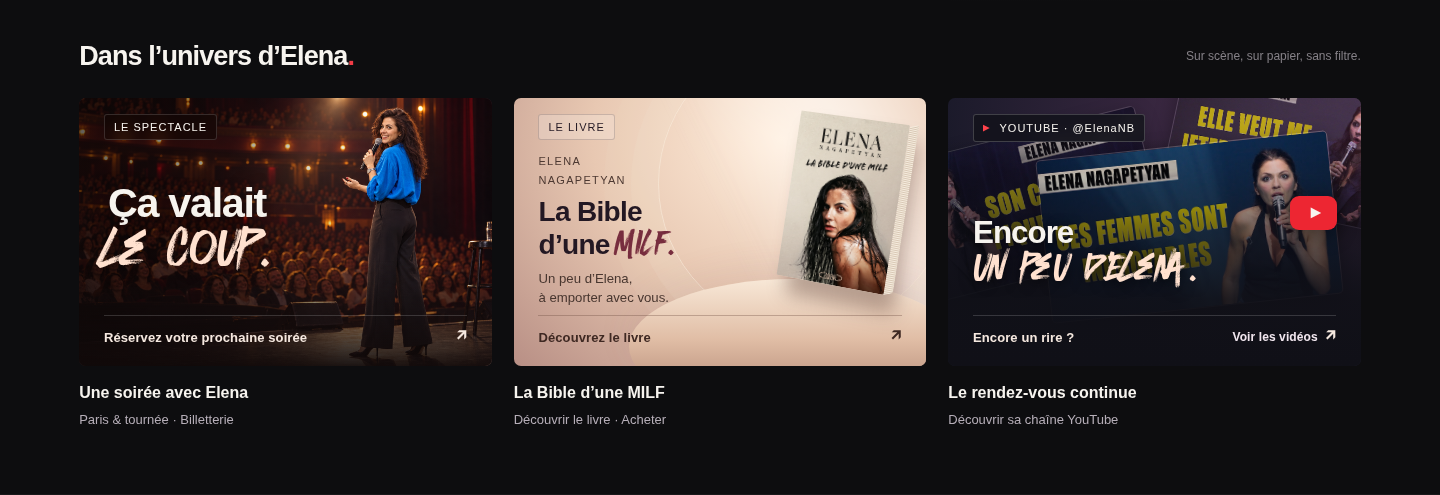
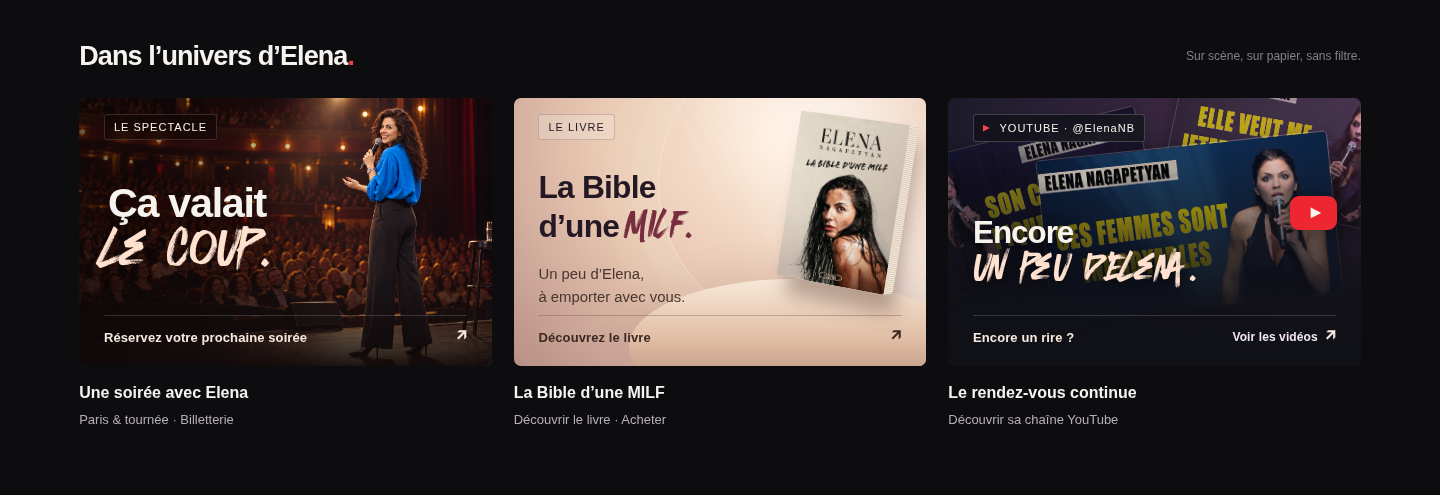
[Sol · GPT-6 · 19/09/2026] Rééquilibrer le texte de la carte du livre

Changed region(s): [[0.375, 0.303, 0.5, 0.5152], [0.375, 0.5455, 0.4688, 0.6364]]

diff --git a/site/index.html b/site/index.html
@@ -1,10 +1,10 @@
 <!doctype html>
-<html lang="fr"><head><meta charset="utf-8"><meta name="viewport" content="width=device-width,initial-scale=1"><meta name="robots" content="noindex,nofollow"><meta name="description" content="Une proposition créative autour de l’univers d’Elena Nagapetyan."><title>Elena — Ça valait le coup · Concept</title><link rel="icon" type="image/png" sizes="32x32" href="assets/favicon-32.png"><link rel="icon" type="image/svg+xml" href="assets/favicon.svg"><link rel="apple-touch-icon" sizes="180x180" href="assets/apple-touch-icon.png"><link rel="stylesheet" href="style.css?v=footer-12"></head>
+<html lang="fr"><head><meta charset="utf-8"><meta name="viewport" content="width=device-width,initial-scale=1"><meta name="robots" content="noindex,nofollow"><meta name="description" content="Une proposition créative autour de l’univers d’Elena Nagapetyan."><title>Elena — Ça valait le coup · Concept</title><link rel="icon" type="image/png" sizes="32x32" href="assets/favicon-32.png"><link rel="icon" type="image/svg+xml" href="assets/favicon.svg"><link rel="apple-touch-icon" sizes="180x180" href="assets/apple-touch-icon.png"><link rel="stylesheet" href="style.css?v=book-13"></head>
 <body>
 <a class="skip" href="#spectacle">Aller au contenu</a>
 <header><a class="brand" href="#accueil" aria-label="Elena, accueil">ELENA<span>NAGAPETYAN</span></a><nav aria-label="Navigation principale"><a class="active" href="#accueil">Accueil</a><a href="#spectacle">Le spectacle</a><a href="#univers">Son univers</a><a href="#contact">Contact</a></nav><div class="header-actions"><div class="header-socials" aria-label="Réseaux sociaux"><a class="header-social header-instagram" href="https://www.instagram.com/elenanagapetyan_/" target="_blank" rel="noopener noreferrer" aria-label="Elena sur Instagram" title="Elena sur Instagram"><svg aria-hidden="true" viewBox="0 0 24 24" fill="none" stroke="currentColor" stroke-width="1.7"><rect x="3" y="3" width="18" height="18" rx="5"/><circle cx="12" cy="12" r="4"/><circle cx="17.5" cy="6.5" r="1" fill="currentColor" stroke="none"/></svg></a><a class="header-social header-youtube" href="https://www.youtube.com/@ElenaNB" target="_blank" rel="noopener noreferrer" aria-label="Elena sur YouTube" title="Elena sur YouTube"><svg aria-hidden="true" viewBox="0 0 24 24" fill="none" stroke="currentColor" stroke-width="1.7"><rect x="2" y="5" width="20" height="14" rx="4"/><path d="m10 9 6 3-6 3Z" fill="currentColor" stroke="none"/></svg></a><a class="header-social header-facebook" href="https://www.facebook.com/p/Elena-Nagapetyan-100076068015422/" target="_blank" rel="noopener noreferrer" aria-label="Elena sur Facebook" title="Elena sur Facebook"><svg aria-hidden="true" viewBox="0 0 24 24" fill="none" stroke="currentColor" stroke-width="1.7"><path d="M14 21v-8h3l.5-4H14V7c0-1 .4-2 2-2h2V1.5A25 25 0 0 0 15 1c-3 0-5 2-5 5v3H7v4h3v8Z" fill="currentColor" stroke="none"/></svg></a></div><a class="tickets" href="https://linktr.ee/elenanb" target="_blank" rel="noopener noreferrer">Billetterie <span>↗</span></a></div></header>
 <main><section class="hero" id="accueil"><div class="glow"></div><div class="backword" aria-hidden="true">ELENA</div><img class="portrait" src="assets/elena-hd.png" alt="Elena Nagapetyan" fetchpriority="high"><div class="hero-shade"></div><div class="hero-content"><p class="eyebrow"><span></span> ELENA NAGAPETYAN · SUR SCÈNE</p><h1><span>Ça valait</span><br><em>le coup.</em></h1><div class="metadata"><span>Stand-up</span><b>·</b><span>Paris & tournée</span><b>·</b><span class="tag">SPECTACLE</span></div><p class="intro">Oser dire ce qu’elle pense.<br>Vivre comme elle veut. Libre.</p><div class="actions"><a class="button primary" href="https://linktr.ee/elenanb" target="_blank" rel="noopener noreferrer"><span>↗</span> Voir la billetterie</a><a class="button secondary" href="#spectacle"><span>ⓘ</span> Le spectacle</a></div></div><div class="hero-bottom"><span>UNE VOIX. AUCUN FILTRE.</span><a href="#univers">Explorer son univers <span>↓</span></a><span class="index">STAND-UP</span></div></section>
-<section class="catalog section" id="univers"><div class="section-heading"><h2>Dans l’univers d’Elena<span>.</span></h2><span>Sur scène, sur papier, sans filtre.</span></div><div class="cards"><a class="card stage" href="https://linktr.ee/elenanb" target="_blank" rel="noopener noreferrer"><div class="card-art"><span class="pill">LE SPECTACLE</span><img class="scene-photo" src="assets/elena-scene.png" alt="Illustration générée d’Elena debout sur scène face à une salle de spectacle" loading="lazy"><span class="scene-shade" aria-hidden="true"></span><div class="card-title">Ça valait<br><em>le coup.</em></div><span class="card-cta">Réservez votre prochaine soirée <span aria-hidden="true">↗</span></span></div><div class="card-caption"><h3>Une soirée avec Elena</h3><p>Paris & tournée · Billetterie</p></div></a><a class="card book" href="https://www.interforum.fr/Affiliations/accueil.do?refLivre=9782749964133&amp;refEditeur=132&amp;type=P" target="_blank" rel="noopener noreferrer"><div class="card-art"><span class="pill">LE LIVRE</span><span class="book-orbit" aria-hidden="true"></span><span class="book-plinth" aria-hidden="true"></span><div class="book-copy"><span>ELENA<br>NAGAPETYAN</span><strong>La Bible<br><span>d’une <em>MILF.</em></span></strong><small>Un peu d’Elena,<br>à emporter avec vous.</small></div><div class="book-object"><img src="assets/livre-couverture.jpg" alt="Couverture originale de La Bible d’une MILF, Elena Nagapetyan, éditions Michel Lafon" loading="lazy"></div><span class="card-cta">Découvrez le livre <span aria-hidden="true">↗</span></span></div><div class="card-caption"><h3>La Bible d’une MILF</h3><p>Découvrir le livre · Acheter</p></div></a><a class="card video" href="https://www.youtube.com/@ElenaNB" target="_blank" rel="noopener noreferrer"><div class="card-art"><div class="youtube-mosaic" aria-hidden="true"><img class="yt-back" src="assets/youtube-2.jpg" alt="" loading="lazy"><img class="yt-side" src="assets/youtube-3.jpg" alt="" loading="lazy"><img class="yt-front" src="assets/youtube-1.jpg" alt="" loading="lazy"></div><span class="video-shade" aria-hidden="true"></span><span class="pill youtube-label"><span>▶</span> YOUTUBE · @ElenaNB</span><span class="play" aria-hidden="true">▶</span><div class="video-type">Encore<br><em>un peu d’Elena.</em></div><span class="card-cta">Encore un rire ? <span class="cta-action">Voir les vidéos</span> <span aria-hidden="true">↗</span></span></div><div class="card-caption"><h3>Le rendez-vous continue</h3><p>Découvrir sa chaîne YouTube</p></div></a></div></section>
+<section class="catalog section" id="univers"><div class="section-heading"><h2>Dans l’univers d’Elena<span>.</span></h2><span>Sur scène, sur papier, sans filtre.</span></div><div class="cards"><a class="card stage" href="https://linktr.ee/elenanb" target="_blank" rel="noopener noreferrer"><div class="card-art"><span class="pill">LE SPECTACLE</span><img class="scene-photo" src="assets/elena-scene.png" alt="Illustration générée d’Elena debout sur scène face à une salle de spectacle" loading="lazy"><span class="scene-shade" aria-hidden="true"></span><div class="card-title">Ça valait<br><em>le coup.</em></div><span class="card-cta">Réservez votre prochaine soirée <span aria-hidden="true">↗</span></span></div><div class="card-caption"><h3>Une soirée avec Elena</h3><p>Paris & tournée · Billetterie</p></div></a><a class="card book" href="https://www.interforum.fr/Affiliations/accueil.do?refLivre=9782749964133&amp;refEditeur=132&amp;type=P" target="_blank" rel="noopener noreferrer"><div class="card-art"><span class="pill">LE LIVRE</span><span class="book-orbit" aria-hidden="true"></span><span class="book-plinth" aria-hidden="true"></span><div class="book-copy"><strong>La Bible<br><span>d’une <em>MILF.</em></span></strong><small>Un peu d’Elena,<br>à emporter avec vous.</small></div><div class="book-object"><img src="assets/livre-couverture.jpg" alt="Couverture originale de La Bible d’une MILF, Elena Nagapetyan, éditions Michel Lafon" loading="lazy"></div><span class="card-cta">Découvrez le livre <span aria-hidden="true">↗</span></span></div><div class="card-caption"><h3>La Bible d’une MILF</h3><p>Découvrir le livre · Acheter</p></div></a><a class="card video" href="https://www.youtube.com/@ElenaNB" target="_blank" rel="noopener noreferrer"><div class="card-art"><div class="youtube-mosaic" aria-hidden="true"><img class="yt-back" src="assets/youtube-2.jpg" alt="" loading="lazy"><img class="yt-side" src="assets/youtube-3.jpg" alt="" loading="lazy"><img class="yt-front" src="assets/youtube-1.jpg" alt="" loading="lazy"></div><span class="video-shade" aria-hidden="true"></span><span class="pill youtube-label"><span>▶</span> YOUTUBE · @ElenaNB</span><span class="play" aria-hidden="true">▶</span><div class="video-type">Encore<br><em>un peu d’Elena.</em></div><span class="card-cta">Encore un rire ? <span class="cta-action">Voir les vidéos</span> <span aria-hidden="true">↗</span></span></div><div class="card-caption"><h3>Le rendez-vous continue</h3><p>Découvrir sa chaîne YouTube</p></div></a></div></section>
 <section class="story section" id="spectacle"><div><p class="eyebrow">LE SPECTACLE</p><h2>Assumer ses choix.<br><em>Et en rire.</em></h2></div><div class="story-copy"><p>Ce spectacle raconte le parcours d’une fille qui essaie d’assumer ses choix. Celle qui ose dire ce qu’elle pense et vivre comme elle veut. Libre.</p><a class="button primary story-booking" href="https://linktr.ee/elenanb" target="_blank" rel="noopener noreferrer">Trouver ma prochaine soirée <span aria-hidden="true">↗</span></a></div></section>
 <section class="contact section" id="contact"><div class="contact-heading"><p class="eyebrow">ON GARDE LE LIEN</p><h2>La suite,<br><em>c’est par ici.</em></h2></div><p class="contact-intro">Le spectacle se termine.<br>Les rires, eux, peuvent continuer.<span>Retrouvez Elena sur vos réseaux préférés.</span></p><div class="socials" aria-label="Retrouver Elena sur les réseaux sociaux"><a class="social-link social-instagram" href="https://www.instagram.com/elenanagapetyan_/" target="_blank" rel="noopener noreferrer"><span class="social-icon" aria-hidden="true"><svg viewBox="0 0 24 24" fill="none" stroke="currentColor" stroke-width="1.7"><rect x="3" y="3" width="18" height="18" rx="5"/><circle cx="12" cy="12" r="4"/><circle cx="17.5" cy="6.5" r="1" fill="currentColor" stroke="none"/></svg></span><span class="social-name">Instagram</span><span class="social-handle">@elenanagapetyan_</span><span class="social-arrow" aria-hidden="true">↗</span><span class="social-invite">Suivre Elena <span aria-hidden="true">→</span></span></a><a class="social-link social-youtube" href="https://www.youtube.com/@ElenaNB" target="_blank" rel="noopener noreferrer"><span class="social-icon" aria-hidden="true"><svg viewBox="0 0 24 24" fill="none" stroke="currentColor" stroke-width="1.7"><rect x="2" y="5" width="20" height="14" rx="4"/><path d="m10 9 6 3-6 3Z" fill="currentColor" stroke="none"/></svg></span><span class="social-name">YouTube</span><span class="social-handle">@ElenaNB</span><span class="social-arrow" aria-hidden="true">↗</span><span class="social-invite">Voir les vidéos <span aria-hidden="true">→</span></span></a><a class="social-link social-facebook" href="https://www.facebook.com/p/Elena-Nagapetyan-100076068015422/" target="_blank" rel="noopener noreferrer"><span class="social-icon" aria-hidden="true"><svg viewBox="0 0 24 24" fill="none" stroke="currentColor" stroke-width="1.7"><path d="M14 21v-8h3l.5-4H14V7c0-1 .4-2 2-2h2V1.5A25 25 0 0 0 15 1c-3 0-5 2-5 5v3H7v4h3v8Z" fill="currentColor" stroke="none"/></svg></span><span class="social-name">Facebook</span><span class="social-handle">Elena Nagapetyan</span><span class="social-arrow" aria-hidden="true">↗</span><span class="social-invite">Rejoindre sa page <span aria-hidden="true">→</span></span></a></div><div class="contact-mail"><span>Envie d’échanger ?</span><a class="email" href="mailto:elena@elenanagapetyan.com">elena@elenanagapetyan.com <span aria-hidden="true">↗</span></a></div></section>
 </main><footer class="site-footer">

diff --git a/site/style.css b/site/style.css
@@ -213,3 +213,8 @@ header .tickets span{margin-left:16px}
 .back-to-top{display:inline-flex;align-items:center;gap:15px;min-height:44px;padding:8px 12px;border-radius:6px;color:#e3d7df}.back-to-top>span{color:#f17785}.back-to-top:hover{background:#ffffff08;color:#fff}
 @media(max-width:1000px){.footer-main{grid-template-columns:1fr auto;gap:22px}.site-footer .footer-note{grid-column:1;grid-row:2}.site-footer .footer-links{grid-column:2;grid-row:1/3}.footer-credits{flex-wrap:wrap;gap:8px 24px}}
 @media(max-width:620px){.site-footer{padding-top:32px;padding-bottom:24px}.footer-main{grid-template-columns:minmax(0,1fr);gap:22px;padding-bottom:24px}.site-footer .footer-note{grid-column:auto;grid-row:auto;font-size:13px}.site-footer .footer-links{grid-column:auto;grid-row:auto;flex-direction:row;flex-wrap:wrap;gap:6px 14px}.footer-links a{padding-left:0;gap:14px}.footer-credits{flex-direction:column;align-items:flex-start;gap:12px;font-size:12px}.footer-signature{margin-left:0}.back-to-top{padding-left:0}.footer-identity .brand{font-size:27px}}
+
+/* Le titre du livre occupe la place libérée par la répétition du nom. */
+.book .book-copy{left:6%;top:27%;width:49%}
+.book .book-copy strong{font-size:clamp(26px,7.7cqw,37px);line-height:1.12;margin:0 0 17px;letter-spacing:-.8px}
+.book .book-copy small{font-size:clamp(13px,3.6cqw,17px);line-height:1.5}

diff --git a/docs/VALIDATION.md b/docs/VALIDATION.md
@@ -32,3 +32,7 @@ Monogramme E original en SVG, déclinaisons PNG 32 px et icône Apple 180 px ; r
 ## Harmonisation du pied de page — 19 septembre 2026
 
 Identité avec monogramme, fond bordeaux discret, grille de lecture et mentions plus lisibles. Liens regroupés, cibles tactiles de 44 px minimum et retour en haut. Vérifications Chromium à 320, 390, 620, 768, 1000, 1024, 1440, 1920 et 3440 px : aucun débordement horizontal ; cibles de liens vérifiées et retour en haut fonctionnel. Captures du footer inspectées sur ordinateur et mobile. Kit actualisé.
+
+## Carte du livre — 19 septembre 2026
+
+Suppression du nom répété au-dessus du titre, titre et accroche agrandis, bloc élargi et repositionné. Contrôles Chromium à 320, 390, 620, 768, 1000, 1024, 1440, 1920 et 3440 px : pas de débordement horizontal, espace préservé entre texte et CTA. Captures de la carte inspectées à 320 et 1440 px. Captures et kit actualisés.
